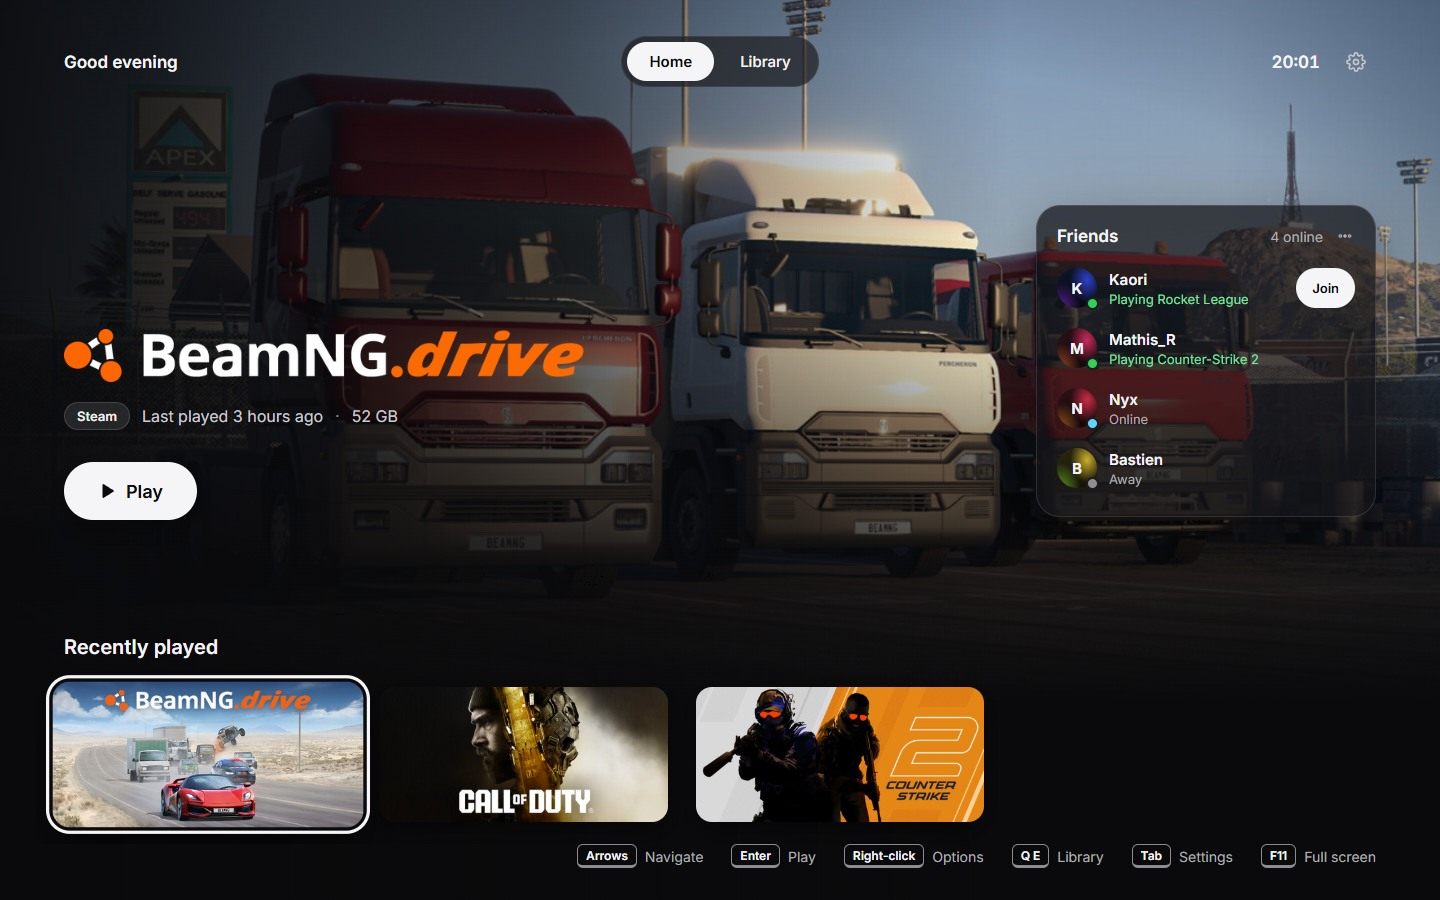
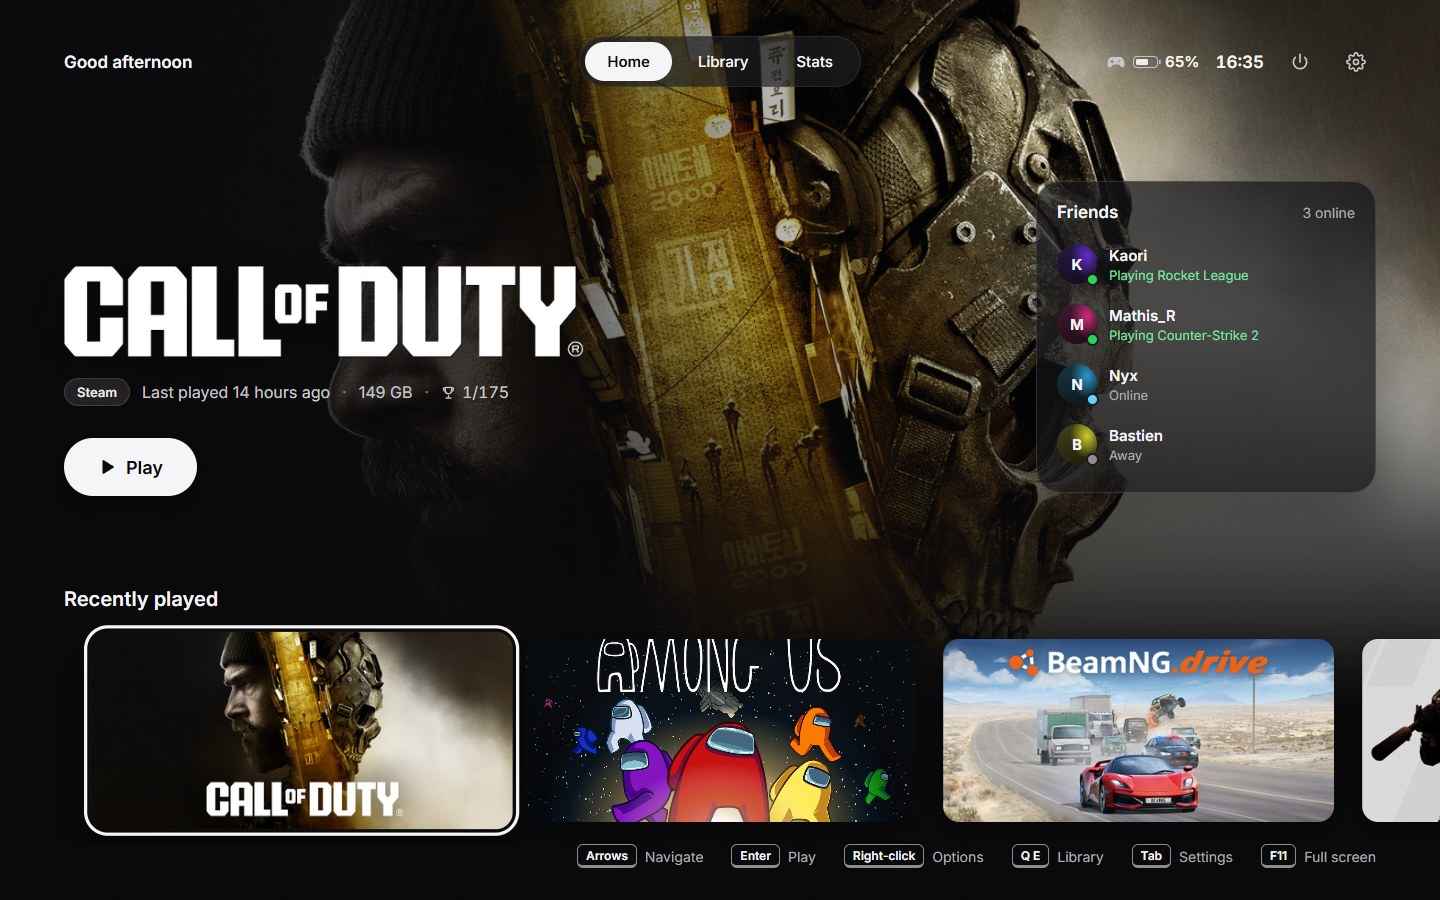
Refresh the README screenshots
New shots of Home, the Library's Not installed filter, the Stats tab
and a game page, taken from the 0.1.17 app.

diff --git a/README.md b/README.md
@@ -20,7 +20,7 @@ A minimal, controller-first launcher that turns your Windows library into a cons
 </div>
 
 <p align="center">
-  <img src="docs/screenshots/home.jpg" alt="Lounge's Home screen: BeamNG.drive hero art with its logo and a Play button, Steam friends online on the right, and a Recently played shelf below" width="100%" />
+  <img src="docs/screenshots/home.jpg" alt="Lounge's Home screen: Call of Duty hero art with its logo, achievements and a Play button, friends online on the right, and a Recently played shelf below" width="100%" />
 </p>
 
 ---
@@ -57,11 +57,19 @@ Steam's Big Picture mode is heavy. Store launchers are noisy. Lounge is neither:
 - **Play**, your achievements, the game's folder and more options, one button each.
 - Your Steam screenshots of the game, or the store's when you haven't taken any, full screen with ✕.
 
+<p align="center">
+  <img src="docs/screenshots/game-page.jpg" alt="Lounge's game page for Call of Duty: its logo over the hero art, genre, description and studio, Play, achievements, Game folder and More buttons, cards for play time with a 12-week chart, last played, friends playing and storage, and a strip of store screenshots" width="100%" />
+</p>
+
 ### 📊 Stats
 - A **Stats** tab next to Home and Library: your play time this week, day by day and against last week, and your streak of days played.
 - Your most played games, over the last two weeks or all time, and your last 12 weeks at a glance. ✕ on a game opens its page.
 - Each game's page shows its play time over the last two weeks, a 12-week chart, and your last and longest session.
 - Steam only keeps totals on your PC, so the day-by-day history starts the day Lounge starts counting. Totals and the last two weeks come from Steam straight away.
+
+<p align="center">
+  <img src="docs/screenshots/stats.jpg" alt="Lounge's Stats tab: 7 h 07 played this week with a bar per day and a 3-day streak, the most played games of the last two weeks, and the last 12 weeks" width="100%" />
+</p>
 
 ### 🏆 Steam achievements
 - The Home screen shows how many achievements of the selected game you've unlocked.
@@ -69,7 +77,7 @@ Steam's Big Picture mode is heavy. Store launchers are noisy. Lounge is neither:
 - Hidden achievements stay masked until you choose to reveal them.
 
 <p align="center">
-  <img src="docs/screenshots/library.jpg" alt="Lounge's Library: a grid of game covers sorted by play time, with store filters and a Hidden games filter" width="100%" />
+  <img src="docs/screenshots/library.jpg" alt="Lounge's Library on the Not installed filter: a grid of Steam game covers sorted by play time, each with a Not installed badge, next to the store and Hidden filters" width="100%" />
 </p>
 
 ### ⏯ A Quick Menu in game
